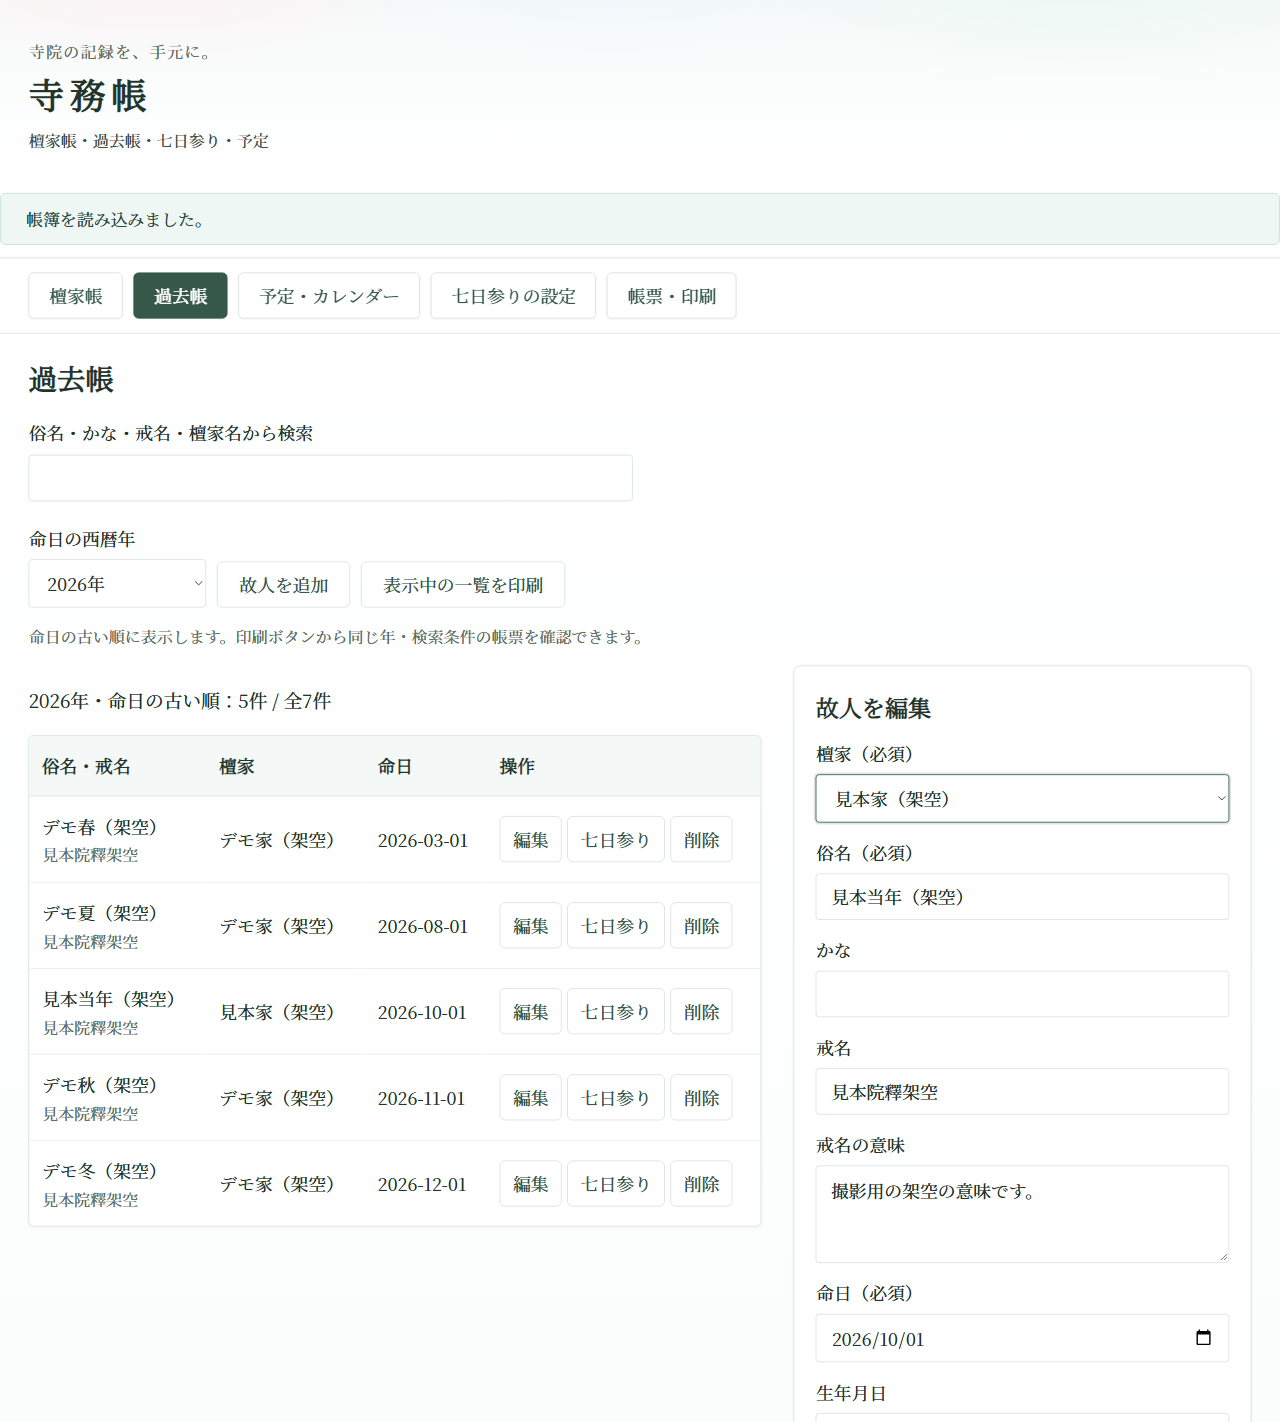
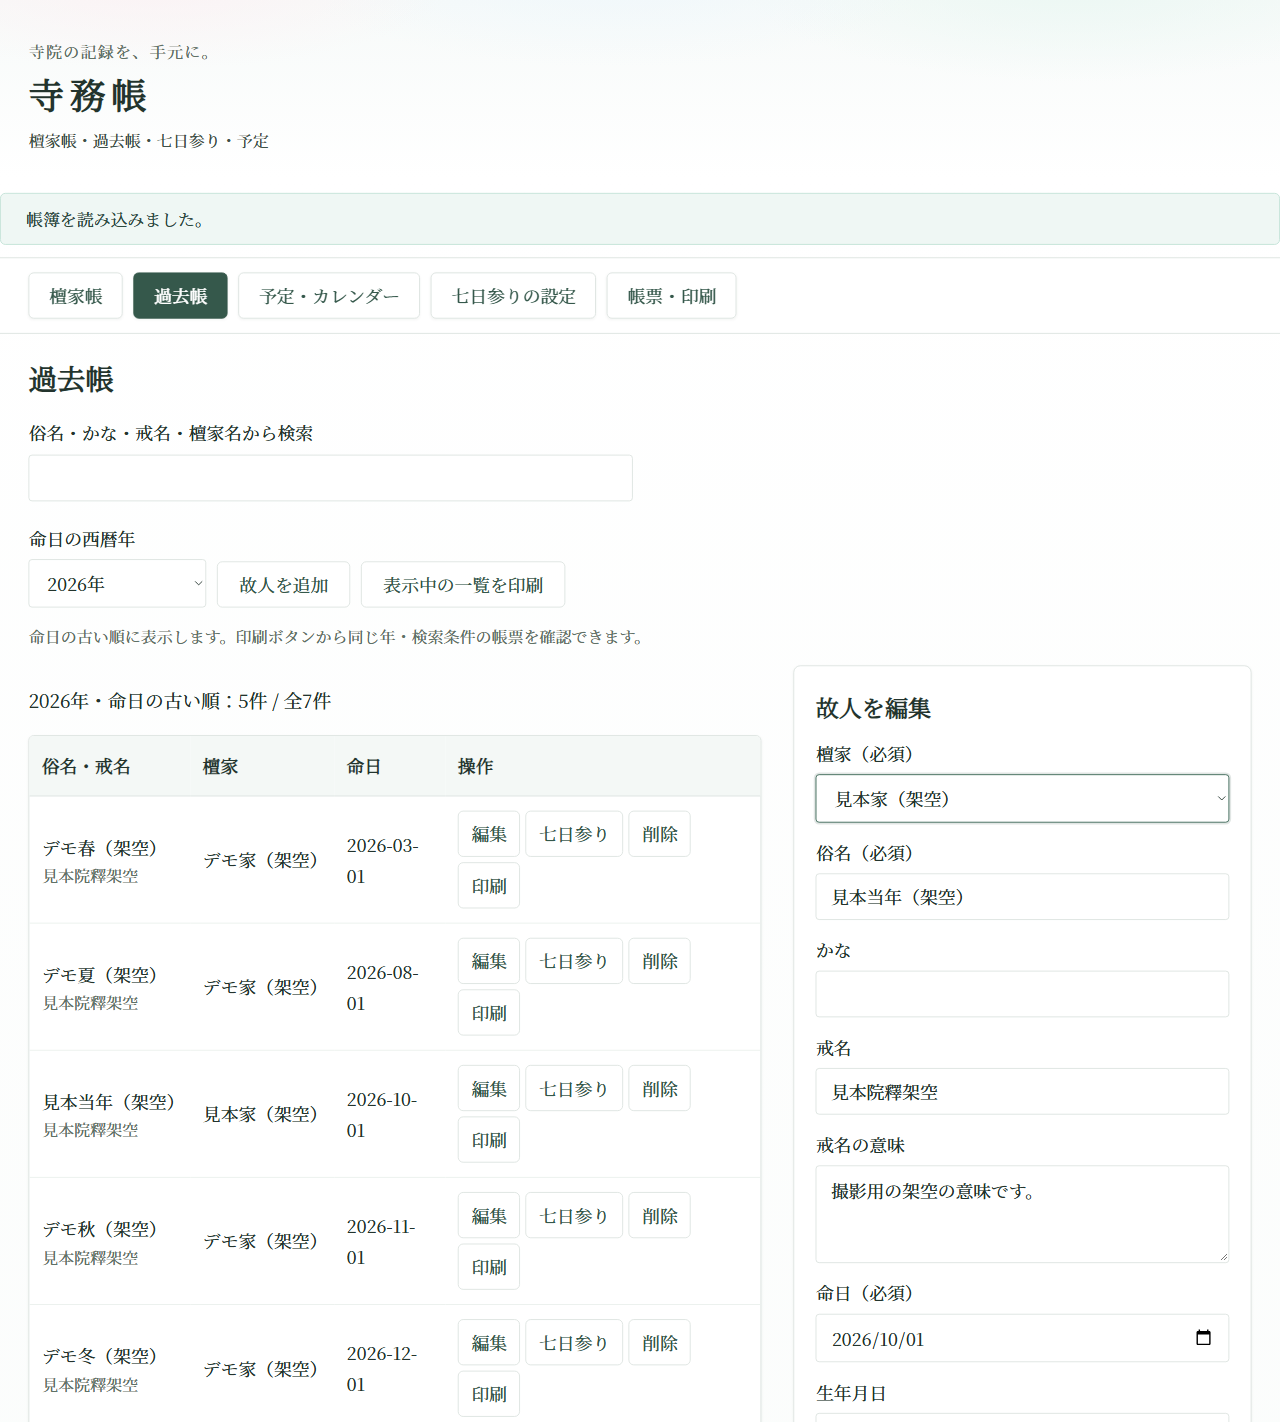
feat: preview deceased printing from each record

diff --git a/web/app.js b/web/app.js
@@ -146,8 +146,16 @@ if (typeof document === 'undefined') {
   }
   function deceasedControls(item) {
     const controls = node('div', undefined, 'deceased-controls');
-    controls.append(deceasedAction('編集', () => edit('deceased', item)), deceasedAction('七日参り', () => showMemorial(item)), deceasedAction('削除', () => deleteDeceased(item)));
+    const print = deceasedAction('印刷', () => previewDeceased(item));
+    print.setAttribute('aria-label', `${item.name}の戒名を印刷`);
+    controls.append(deceasedAction('編集', () => edit('deceased', item)), deceasedAction('七日参り', () => showMemorial(item)), deceasedAction('削除', () => deleteDeceased(item)), print);
     return controls;
+  }
+  async function previewDeceased(item) {
+    if (deceasedBusy || loading || reportBusy) return;
+    switchTab('reports'); $('report-type').value = 'kaimyo'; $('report-deceased').value = String(item.id);
+    invalidateReport(); await prepareReport();
+    if (reportReady && $('report-type').value === 'kaimyo' && $('report-deceased').value === String(item.id)) { $('report-preview').scrollIntoView({block: 'start'}); await printReport(); }
   }
   async function deleteDeceased(item) {
     if (deceasedBusy || loading) return;
@@ -471,13 +479,14 @@ if (typeof document === 'undefined') {
   $('new-deceased').addEventListener('click', () => newDeceased());
   $('print-deceased-list').addEventListener('click', () => { if (deceasedBusy || loading || !visibleDeceased().length) return; switchTab('reports'); $('report-type').value = 'register-list'; prepareReport(); });
   $('preview-report').addEventListener('click', prepareReport);
-  $('print-report').addEventListener('click', async () => {
+  async function printReport() {
     if (!reportReady || reportBusy || loading || deceasedBusy) return;
     await document.fonts.ready;
     if (!reportReady || reportBusy || loading || deceasedBusy) return;
     $('print-area').replaceChildren(...[...$('report-preview').children].map(page => page.cloneNode(true)));
     window.print();
-  });
+  }
+  $('print-report').addEventListener('click', printReport);
   for (const id of ['report-type', 'report-deceased', 'report-notes']) $(id).addEventListener('change', invalidateReport);
   $('household-search').addEventListener('input', renderHouseholds);
   $('deceased-search').addEventListener('input', () => { renderDeceased(); invalidateReport(); });

diff --git a/README.md b/README.md
@@ -34,6 +34,7 @@
   - 檀家帳の各家の下に、紐付く故人を命日順で表示します。その家を選んだ状態で追加でき、一覧から編集・削除できます。
   - 過去帳は命日の古い順に並び、西暦年と検索語で絞り込めます。「表示中の一覧を印刷」は同じ対象と順序の縦書き一覧を出力し、文字が長い場合は故人単位で次ページへ繰り越します。一人分が用紙に収まらない場合は、切り捨てず確認箇所を知らせて印刷を止めます。
   - 削除前に俗名・戒名・命日を確認します。故人を削除しても檀家は残り、自動計算の法要予定は表示から除かれます。更新済みの記録は削除せず、最新の一覧を表示して再確認を求めます。
+  - 故人行の「印刷」から、その故人の戒名・意味をA4横に整え、ブラウザーの印刷プレビューを直接開きます。
 - **オフライン郵便番号検索**
   - 日本郵便の公開データを加工したローカル辞書を同梱しています。
   - 郵便番号7桁の入力から町域までを外部ネットワーク不要で自動補完します。
